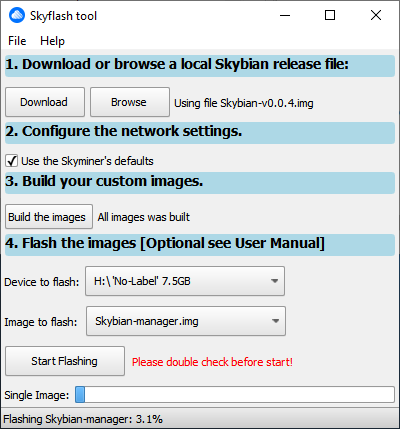
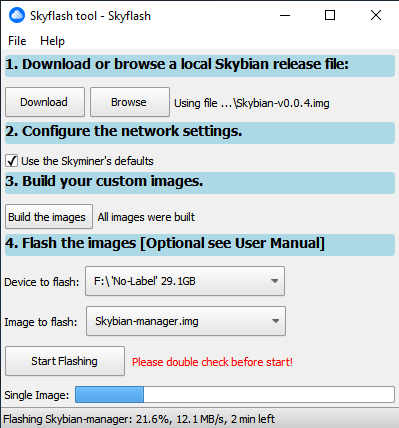
Refs #78, update the USER_MANUAL with the recent changes

diff --git a/USER_MANUAL.md b/USER_MANUAL.md
@@ -50,7 +50,7 @@ If the app finds any problem on any of this two operations (mainly due to corrup
 
 ### About folders and magic
 
-We incorporated a magic effect into Skyflash to ease your life, go & close the app at this point and re-open it... you will see it knows that it has already a Skybian base image and it will show ready for steps #2 & #3
+We incorporated a magic effect into Skyflash to ease your life, go & close the app at this point and re-open it... you will see it knows that it has already a Skybian base image and it will show ready for next steps.
 
 The magic resides in the Skyflash app folder, once you run it for the first time it will create a folder named Skyflash in a specific place depending on your OS:
 
@@ -60,11 +60,13 @@ The magic resides in the Skyflash app folder, once you run it for the first time
 | Linux | ~/Skyflash | Inside your home directory |
 | MacOS | ~/Skyflash | Inside your home directory |
 
-Please take a moment to find this folder, inside it you will find at least a `Downloads` folder and a file called Skyflash.log
+Please take a moment to find this folder, inside it you will find at least this:
 
-Mac OS users may get confused as some times there is no Home directory bookmark in finder, simply search for the Documents folder in Finder and press `cmd + up key` that's your home folder, now you can drag it to the bookmarks; inside it you will see a Skyflash folder.
+- A `Downloads` folder: here will reside the downloaded Skybian image, it's extracted image and checksums
+- A file called `skyflash.log`: this is the log of actions with debug info in case of troubles or if reporting a bug
+- A file called `skyflash.conf`: this file holds the configurations state of the software between runs
 
-The download folder is the place where the app put the downloaded & extracted base images plus some other files, the Skyflash.log file is just that: the log file for all operations & you will love it if you get in trouble at some point.
+Mac OS users may get confused as some times there is no Home directory bookmark in finder, simply search for the Documents folder in Finder and press `cmd + up` and that's your home folder, now you can drag it to the bookmarks; inside it you will see a Skyflash folder.
 
 This folder will also be the default place for your custom Skybian images _(you can change this later)_, so don't forget it.
 
@@ -115,9 +117,9 @@ When this process finish you will have the images in your selected Skybian folde
 
 ![Ready to flash the images](/images/flashing-start.png)
 
-You may want to flash the image now or later, if you want to do it now then you may follow the steps below, if not we recommend [BalenaEtcher](https://www.balena.io/etcher/) a multi-platform flashing tool that will do the task once you have the images generated.
+The flash process can be done now or later, simply close the app and re-open it, it will pick up where it left.
 
-**A word of warning:** once you generate the images and close Skyflash you will not be able to use Skyflash to burn the same images unless you re-generate the images. For this reason we recommend to have a copy of BalenaEtcher at hand to burn the previously generated images.
+But a word of warning here: if you build more than one set of images with different configs _(for example for two different miners with different network configs)_ Skyflash will only remember the las one used. if it's your case we recommend to have a copy of BalenaEtcher at hand to burn the generated images not remembered by skyflash
 
 To start the flashing process you need to select the proper device, and image in the combo boxes, but first a needed warning:
 
@@ -137,12 +139,14 @@ Once the flashing of that device ends a popup dialog will explain that you can n
 
 ### SD Cards and flash process duration
 
-The flash process depends on the speed of your SD card, using Class 10 or higher class cards is mandatory or you will risk your data with an failed card due to wear out or experience low performance.
+The flash process time depends on the speed of your SD card & hardware, using Class 10 or higher uSD cards is mandatory or you will risk your data with a failed card due to wear out or experience low performance, also some cheap USB uSD card adapters are prone to have low speeds
 
-But yes, flashing one card can take about 3 to 5 minutes depending on flash class & specs.
+The status bar shows you the write speed and the estimate time left _(check the image above)_ the example image is taken while flashing a card via a USB-C hub from Lenovo with a A-DATA Class 10 uSD card, top hardware speed is reached as you can see, as usual you experience may vary
+
+Flashing one card can take about 2 to 6 minutes depending on flash class & hardware specs, again the speed limit is always set by the hardware used
 
 ## Why skyflash ask for credentials or privileged operations?
 
-Flashing to a uSD Card is a privileged operation and Skyflash has built a mechanism to get that privileges at some point.
+Flashing an image to a uSD Card is a privileged operation and Skyflash has built a mechanism to get that privileges at some point
 
-Depending on your operating system you will see a credential asking box sooner or later, in Windows the privilege asking happens at the start of the app, on Linux on the start of each flash operation.
+Depending on your operating system you will see a credential asking box sooner or later, in Windows the privilege asking happens at the start of the app, on Linux/osx on the start of each flash operation
